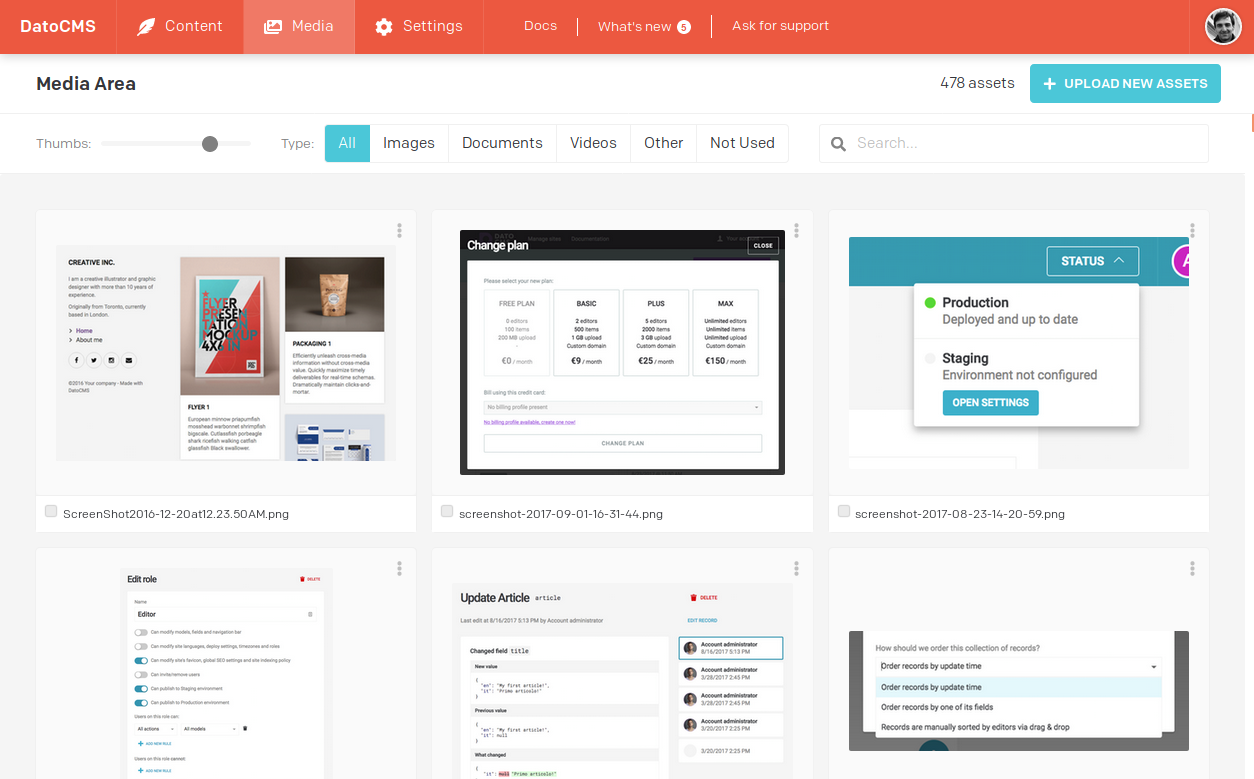
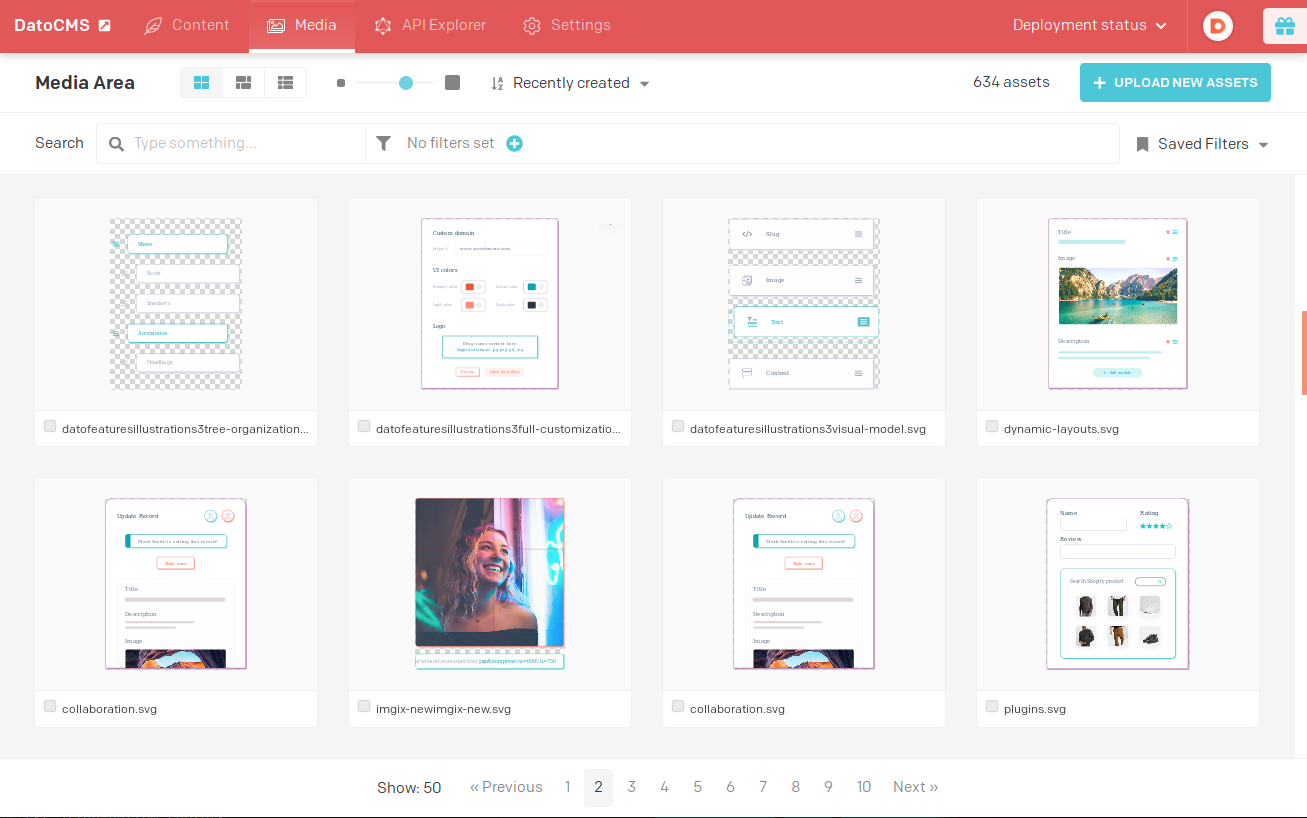
Update docs for new media area

diff --git a/src/docs/01_general-concepts/10_video.md b/src/docs/01_general-concepts/10_video.md
@@ -1,0 +1,44 @@
+---
+title: Video support
+---
+
+DatoCMS natively supports video encoding and streaming, thanks to the integration with [Mux](https://mux.com/), the fastest and most advanced cloud encoding platform for on-demand streaming video.
+
+Every video you upload in your DatoCMS project will be instantly available for streaming. Videos are encoded while the first viewers watch them, giving you the fastest publishing time as possible. Encoded videos get cached on Mux's multi-CDN for future reuse as well.
+
+DatoCMS can ingest almost every available codec including those for broadcast and professional applications (like H.264, H.265, VP9, and Apple ProRes) and thanks to HLS Adaptive Bitrate (ABR) streaming, every viewer will always download the right video size for its device and connection speed.
+
+
+### Media area
+
+You can upload videos just like you do with normal assets. From the interface you'll have access to some metadata and of course you'll be able to play the video straight away.
+
+![Video in media area](../images/video/media-area.png)
+
+Then you can add a video to your models using the _asset_ or _asset gallery_ fields.
+
+We also support integrations with embedded videos from YouTube/Vimeo/Facebook, but that's a separate field type.
+
+
+### What gets exposed via the APIs
+
+Our Content Delivery API, Content Management API and all of our API clients and integrations include:
+
+- HSL video streaming URL;
+- High, medium and low quality MP4 versions of the video to support legacy browsers that do not support HSL;
+- Duration and frame rate of the video;
+- Thumbnail URL: resizable, croppable and available in JPEG, PNG and GIF format;
+
+
+### Pricing and availability
+
+Integration with Mux is available starting from DatoCMS Advanced plan. Each existing plan already includes several minutes of encoding and streaming in the price, and if you ever go over-quota your website will not suffer any service interruption. At the end of the month, we’ll charge you for the difference.
+
+
+### What happens if you downgrade or cancel subscription?
+
+Videos will be kept for 60 days after the last subscription ended. After that we'll delete the video and invalidate the Mux key for streaming that video.
+
+If you then change your mind and reactivate the project you will need to reupload the videos.
+
+This behaviour is particular to videos as they can be very big and expensive to retain. This does not apply to other assets or data in general.

diff --git a/src/docs/01_general-concepts/09_media-area.md b/src/docs/01_general-concepts/09_media-area.md
@@ -54,6 +54,28 @@ The first time the image is called with these parameters, Imgix will cache the r
 
 Take a look at [Imgix's Image API Reference](https://docs.imgix.com/apis/url) page to see all the transformations available.
 
+### Asset organisation
+
+With a growing set of assets you might need to organise them. To do that we offer a few different options.
+
+You can filter on any number of fields with a set of options for each field:
+
+![Serch with filters](../images/media/search-filter.png)
+
+If you have a useful filter that you want to save or share with the rest of the team you can add it to your "Saved filters":
+
+![Save and share a filter](../images/media/save-filter.png)
+
+One way to organise assets that we recommend is to **combine filters with tags**, both manually added and machine learning-based smart tags, automatically added on asset upload.
+
+You can efficiently tag leveraging the bulk tagging:
+
+![Add bulk tags](../images/media/add-tags.png)
+
+And finally you can visualize your assets in various ways, depending on your use case and asset shape:
+
+![All the visualization options](../images/media/visualization-options.png)
+
 ### Asset management
 
 For each asset you can specify a set of default metadata such as title and alternate text that can be applied as a default value when nothing else is selected.
@@ -68,12 +90,6 @@ If you need to add a new revision of an asset you can simply drag a new version 
 
 ![Replace asset](../images/media/replace-asset.png)
 
-### Image editor
-
-If you need to edit an uploaded image you can now edit in place with a powerful editor that allows you to crop, rotate, apply some predefined color filtering, tweak the colors and apply some basic shapes and text on the picture:
-
-![Image editor](../images/media/image-editor.png)
-
 ### Localisation
 
 In case of multiple locales you are able to set default metadata on a locale basis:
@@ -84,3 +100,8 @@ And then override them in place when referincing the asset in a record:
 
 ![Override default title alt](../images/media/localised-title-alt.png)
 
+### Image editor
+
+If you need to edit an uploaded image you can now edit in place with a powerful editor that allows you to crop, rotate, apply some predefined color filtering, tweak the colors and apply some basic shapes and text on the picture:
+
+![Image editor](../images/media/image-editor.png)

diff --git a/src/docs/03_content-delivery-api/13_uploads.md b/src/docs/03_content-delivery-api/13_uploads.md
@@ -1,0 +1,41 @@
+---
+title: Uploads
+---
+
+All the uploads object are augmented with some extra fields exposed via the
+GraphQL API, to allow you some extra possibilities on the frontend.
+
+### Images
+
+Besides all the fields that you can explore via the CMS interface the API returns
+the Blurhash of every image, also as a base64 thumbnail. You can embedded that
+directly in the HTML of the page and then swap it with the actual image at a later
+time, to offer a smooth experience when loading images.
+
+Alternatively a more minimal option is to use the dominant colors to prepare the space
+where the image will be shown:
+
+<iframe src="https://cda-explorer.datocms.com/?embed&apitoken=faeb9172e232a75339242faafb9e56de8c8f13b735f7090964&query={%0A%20%20allUploads%20{%0A%20%20%20%20colors%20{%0A%20%20%20%20%20%20hex%0A%20%20%20%20}%0A%20%20%20%20blurhashBase64Thumb%0A%20%20%20%20url%0A%20%20}%0A}%0A"></iframe>
+
+
+### Videos
+
+If you chose to upload videos on DatoCMS, thanks to the integration with [Mux](https://www.mux.com),
+we can augment the video objects with:
+
+- HSL video streaming URL;
+- high, medium and low quality MP4 versions of the video to support legacy browsers that do not support HSL;
+- duration and frame rate of the video;
+- thumbnail URL: resizable, croppable and available in JPEG, PNG and GIF format.
+
+Like so:
+
+<iframe src="https://cda-explorer.datocms.com/?embed&apitoken=faeb9172e232a75339242faafb9e56de8c8f13b735f7090964&query={%0A%20%20allUploads(filter%3A%20{type%3A%20{eq%3A%20video}})%20{%0A%20%20%20%20video%20{%0A%20%20%20%20%20%20duration%0A%20%20%20%20%20%20framerate%0A%20%20%20%20%20%20gifUrl%0A%20%20%20%20%20%20hlsUrl%0A%20%20%20%20%20%20mp4HighResUrl%0A%20%20%20%20%20%20mp4LowResUrl%0A%20%20%20%20%20%20mp4MediumResUrl%0A%20%20%20%20%20%20muxAssetId%0A%20%20%20%20%20%20muxPlaybackId%0A%20%20%20%20%20%20thumbnailUrl%0A%20%20%20%20}%0A%20%20}%0A}%0A"></iframe>
+
+### Filtering
+
+You can filter on all the meaningful fields that we offer in the uploads.
+
+Here's an example of what you'll see in your CDA explorer:
+
+![Filter uploads](../images/graphql/uploads-filtering.png)
